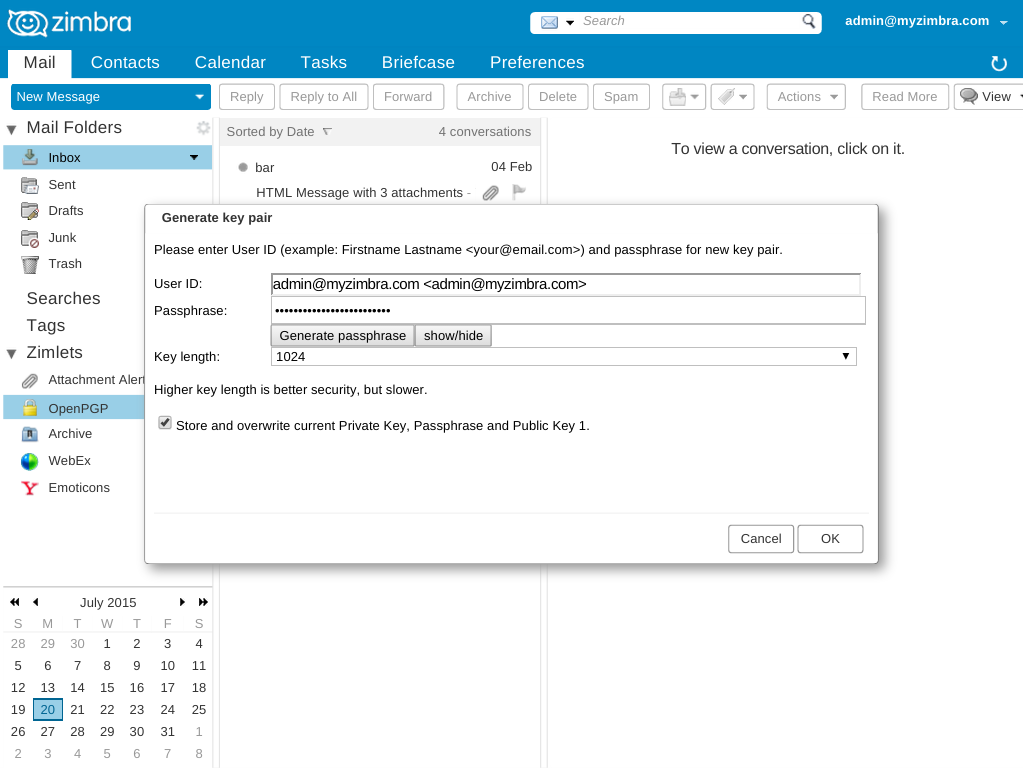
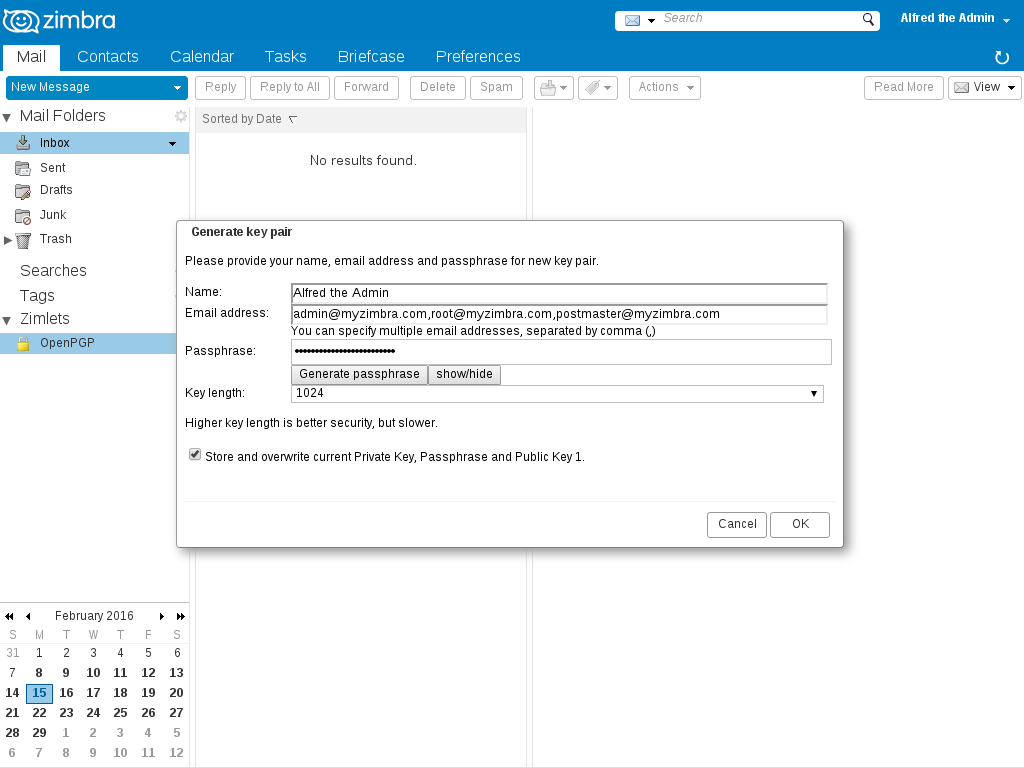
update help file for 2.0.0

diff --git a/tk_barrydegraaff_zimbra_openpgp/help/index.html b/tk_barrydegraaff_zimbra_openpgp/help/index.html
@@ -82,7 +82,8 @@ Right click on OpenPGP and then click "Generate key pair".
 <br><br><img src="generate-keypair-menu.png" alt=""><br><hr><br>
 In the "Generate new key pair" window check if all the fields are correctly filled by the server. Correct when necessary. See the table below:<br><br>
 <table>
-<tr><td>User ID</td><td>example: Firstname Lastname &lt;myemail@example.com&gt;<br>Please follow this example, so people can automatically find your email address when using your public key.</td></tr>
+<tr><td>Name</td><td>example: Firstname Lastname <br>Your name. This will be used as part of the User ID of your new key pair.</td></tr>
+<tr><td>Email address</td><td>example: lellison@redhat.com,jwhitehurst@oracle.com<br>One or more email adresses you want to use with your new key pair.<br></td></tr>
 <tr><td>Passphrase</td><td>
 <ul>
 <li>20 to 30 characters or more</li>
@@ -163,13 +164,10 @@ If you want to attach encrypted documents to your mail, you must first encrypt t
 <br><img src="file-encrypt-dialog.png" alt=""><br>
 <br>If you receive an attachment that was encrypted using Zimbra OpenPGP Zimlet, you must first download the attachment to your local computer. Then use the Zimlet menu 'Decrypt file'.<br>
 <br><img src="file-decrypt-dialog.png" alt=""><br>
-<br>When sending encrypted attachments to persons that do not have Zimbra OpenPGP Zimlet, you can refer them to the <br><a href="https://barrydegraaff.github.io/" target="_blank">Zimbra OpenPGP Zimlet - Web Services</a>. If you prefer, you can also <a href="https://github.com/Zimbra-Community/barrydegraaff.github.io/archive/0.0.1.zip">decrypt off-line</a>.<br>
-<br><img src="file-decrypt-web-service.png" alt=""><br><hr><br>
-
 
 <br><br></section><section id="thunderbird-enigmail">
 <h1>Reading messages encrypted/signed with Thunderbird/Enigmail</h1>
-OpenPGP/MIME encrypted messages using RFC 3156 implemented in Thunderbird/Enigmail can be decrypted and verified by this Zimlet. This is beta functionality text/plain, text/html and attachment message parts are supported.<br>
+OpenPGP/MIME encrypted messages using RFC 3156 implemented in Thunderbird/Enigmail can be decrypted and verified by this Zimlet. This is beta functionality. Plain text messages and attachments are supported. HTML formatted messages are converted to plain text.<br>
 <br><img src="thunderbird-enigmail-support.png" alt=""><br><hr><br>
 
 
